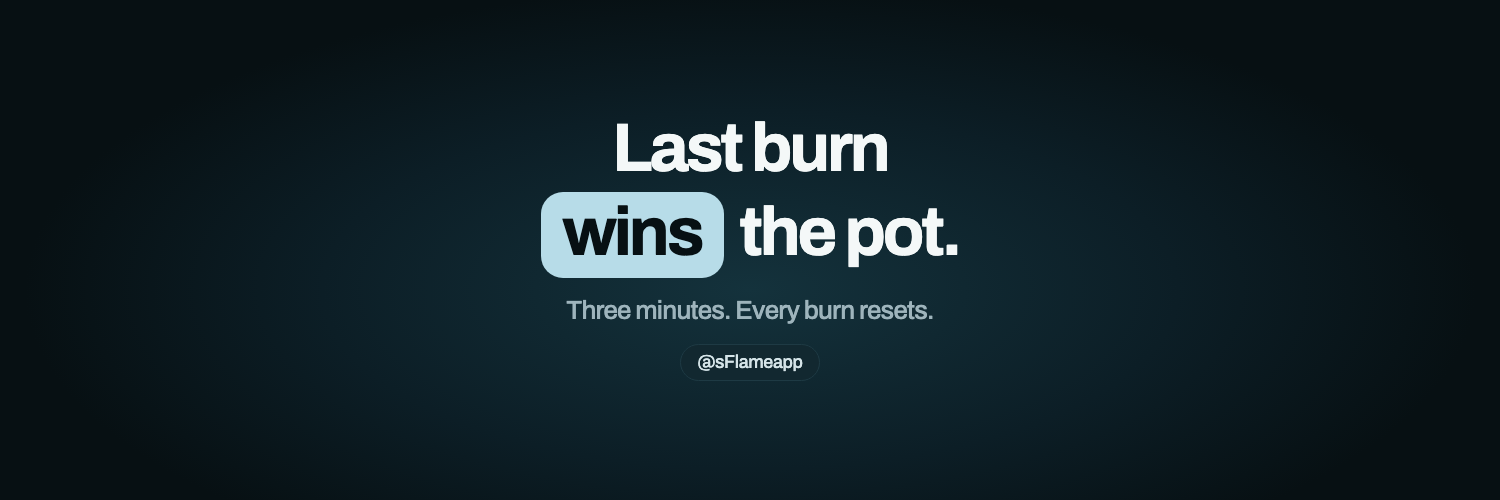
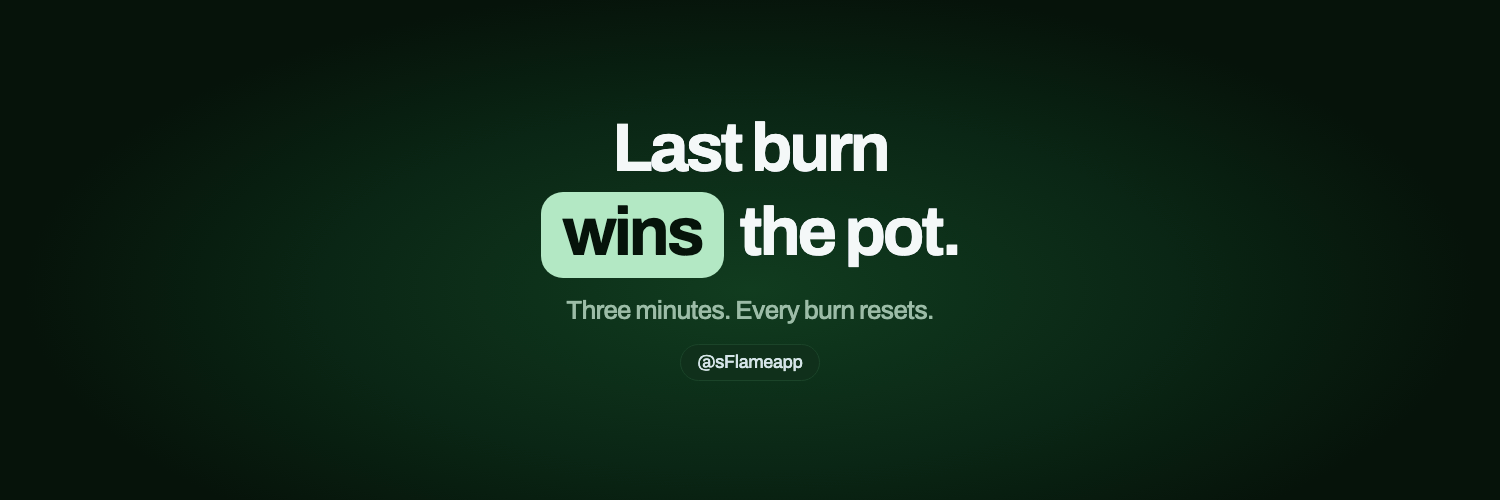
Switch the launch rail and the palette to Pump.fun green.

Changed region(s): [[0.3373, 0.36, 0.6133, 0.72]]

diff --git a/src/index.css b/src/index.css
@@ -2,11 +2,12 @@
 
 :root {
   --black: #071013;
-  --off-white: #f3f8f8;
-  --grey-primary: #5d737c;
-  --grey-secondary: #8eacb6;
-  --brand: #69aac1;
-  --brand-bright: #a4c5cf;
+  --off-white: #f4f8f4;
+  --grey-primary: #5a7a62;
+  --grey-secondary: #8eb89a;
+  --brand: #86efac;
+  --brand-bright: #c6f7d6;
+  --on-brand: #052e16;
   --surface-darker: #0710131a;
   --surface-lighter: #f3f8f81a;
   --hover-on-light: #07101326;
@@ -42,7 +43,7 @@ body.menu-open, body.is-booting { overflow: hidden; }
 a { color: inherit; text-decoration: none; }
 button { font: inherit; color: inherit; cursor: pointer; background: none; border: none; }
 img, svg { max-width: 100%; display: block; }
-::selection { background: var(--brand); color: var(--off-white); }
+::selection { background: var(--brand); color: var(--on-brand); }
 
 h1, .h1 { letter-spacing: -1.32px; font-size: 44px; font-weight: 400; line-height: 0.96; }
 h2, .h2 { letter-spacing: -0.72px; font-size: 36px; font-weight: 400; line-height: 1.06; }
@@ -73,7 +74,7 @@ h5, .h5 { letter-spacing: -0.22px; font-size: 22px; font-weight: 500; line-heigh
 .layout-block-inner { width: 100%; max-width: var(--layout-width); margin-inline: auto; }
 
 .gradient-bg-light {
-  background: radial-gradient(ellipse 100% 130% at 50% -30%, #c5dde6 40%, #e7f1f4 82%, var(--off-white));
+  background: radial-gradient(ellipse 100% 130% at 50% -30%, #c5e6d0 40%, #e7f4ec 82%, var(--off-white));
   pointer-events: none;
   z-index: 0;
   width: 100vw;
@@ -168,7 +169,7 @@ h5, .h5 { letter-spacing: -0.22px; font-size: 22px; font-weight: 500; line-heigh
 .ui-button .icon > span { width: 32px; padding: 0; }
 .ui-button .icon svg { width: 16px; height: 16px; }
 .ui-button:hover .content > span, .ui-button:hover .icon > span { transform: translateY(-100%); }
-.ui-button.accent .content { background: var(--brand); color: var(--off-white); }
+.ui-button.accent .content { background: var(--brand); color: var(--on-brand); }
 .ui-button.secondary .content { backdrop-filter: blur(20px); background: var(--surface-darker); color: var(--black); transition: background-color 0.4s var(--ease); }
 .ui-button.secondary.is-on-dark .content { background: var(--surface-lighter); color: var(--off-white); }
 .ui-button.secondary:hover .content { background: var(--hover-on-light); }
@@ -176,7 +177,7 @@ h5, .h5 { letter-spacing: -0.22px; font-size: 22px; font-weight: 500; line-heigh
 .ui-button.secondary .content > span { gap: 6px; }
 .ui-button:hover.secondary .content > span:before { content: ""; background: var(--brand); width: 6px; height: 6px; display: block; }
 .ui-button.has-icon .icon { background: inherit; }
-.ui-button.has-icon.accent .icon { background: var(--brand); color: var(--off-white); }
+.ui-button.has-icon.accent .icon { background: var(--brand); color: var(--on-brand); }
 .ui-button.has-icon.secondary .icon { backdrop-filter: blur(20px); background: var(--surface-darker); }
 .ui-button.has-icon.secondary.is-on-dark .icon { background: var(--surface-lighter); }
 .ui-button:disabled { cursor: not-allowed; opacity: 0.42; pointer-events: none; }
@@ -255,7 +256,7 @@ h5, .h5 { letter-spacing: -0.22px; font-size: 22px; font-weight: 500; line-heigh
   z-index: 3;
   border-radius: calc(var(--frame) * 8px);
   box-shadow: 0 24px 80px rgba(0, 0, 0, calc(var(--frame) * 0.18));
-  background: radial-gradient(circle at 62% 42%, #16323c 0%, #0c1c22 52%, #071013 100%);
+  background: radial-gradient(circle at 62% 42%, #163c2a 0%, #0c2218 52%, #071013 100%);
   position: absolute;
   overflow: hidden;
 }
@@ -324,7 +325,7 @@ h5, .h5 { letter-spacing: -0.22px; font-size: 22px; font-weight: 500; line-heigh
 @media (width >= 900px) {
   .hero-bottom { grid-template-columns: 160px 1fr 280px; gap: 28px; }
 }
-.hero-mid { color: #c5dde4; max-width: 420px; }
+.hero-mid { color: #c9e6d4; max-width: 420px; }
 .news-chip { backdrop-filter: blur(16px); background: #ffffff0f; padding: 14px 16px; display: block; }
 .news-chip .body-smaller { margin-top: 8px; }
 .pin-dot { background: var(--brand); width: 6px; height: 6px; margin-bottom: 16px; display: block; }
@@ -338,7 +339,8 @@ h5, .h5 { letter-spacing: -0.22px; font-size: 22px; font-weight: 500; line-heigh
 }
 .prod-copy h2 { margin-bottom: 16px; }
 .prod-copy .body { color: var(--grey-primary); max-width: 420px; }
-.prod-chart-card { color: var(--off-white); background: linear-gradient(#69aac1 0%, #0c303e 100%); flex-direction: column; min-height: 420px; padding: 28px 24px 20px; display: flex; }
+.prod-chart-card { color: var(--on-brand); background: linear-gradient(#86efac 0%, #0e3d24 72%, #07140d 100%); flex-direction: column; min-height: 420px; padding: 28px 24px 20px; display: flex; }
+.prod-chart-card .holdings-chart { color: #e8ffef; }
 .chart-value { letter-spacing: -0.04em; margin: 4px 0 18px; font-size: 42px; }
 .chart-sub { opacity: 0.85; margin-bottom: 12px; }
 .holdings-chart { width: 100%; height: 140px; margin-top: auto; }
@@ -369,14 +371,14 @@ h5, .h5 { letter-spacing: -0.22px; font-size: 22px; font-weight: 500; line-heigh
 .stack-copy { min-height: 280px; position: relative; }
 .stack-item { max-width: 520px; transition: opacity 0.7s var(--ease), transform 0.7s var(--ease); position: absolute; inset: 0 auto auto 0; }
 .stack-item h3 { margin: 8px 0 12px; font-size: clamp(28px, 3.4vw, 44px); }
-.stack-item .body { color: color-mix(in srgb, var(--grey-primary) calc((1 - var(--mix, 0)) * 100%), #c5dde4 calc(var(--mix, 0) * 100%)); }
+.stack-item .body { color: color-mix(in srgb, var(--grey-primary) calc((1 - var(--mix, 0)) * 100%), #c9e6d4 calc(var(--mix, 0) * 100%)); }
 .stack-visual { height: min(52vh, 480px); position: relative; }
 .stack-flame {
   width: min(280px, 46vw);
   height: min(420px, 52vh);
   margin-inline: auto;
   color: var(--brand);
-  filter: drop-shadow(0 0 28px #69aac166);
+  filter: drop-shadow(0 0 28px #86efac66);
   transform-origin: 50% 90%;
   animation: flame-flicker 2.8s ease-in-out infinite;
 }
@@ -391,13 +393,13 @@ h5, .h5 { letter-spacing: -0.22px; font-size: 22px; font-weight: 500; line-heigh
 .cta-visual { position: relative; display: flex; align-items: center; }
 .pot-chart { width: min(100%, 480px); margin-left: auto; }
 .pot-chart .chart-value { margin: 6px 0 8px; font-size: clamp(52px, 6vw, 80px); }
-.pot-chart .chart-sub { color: #c5dde4; }
-.pot-chart-caption { color: #c5dde4; margin-top: 22px; }
+.pot-chart .chart-sub { color: #c9e6d4; }
+.pot-chart-caption { color: #c9e6d4; margin-top: 22px; }
 .pot-chart-line { width: 100%; height: 180px; margin-top: 8px; display: block; }
-.pot-chart-key { color: #c5dde4; justify-content: space-between; gap: 16px; margin-top: 8px; display: flex; }
+.pot-chart-key { color: #c9e6d4; justify-content: space-between; gap: 16px; margin-top: 8px; display: flex; }
 
 .opp-track { height: 220vh; }
-.opp-sticky { background: linear-gradient(180deg, #102830 0%, #d5e6ec 58%, var(--off-white) 100%); align-items: center; display: flex; }
+.opp-sticky { background: linear-gradient(180deg, #103028 0%, #d5ecdf 58%, var(--off-white) 100%); align-items: center; display: flex; }
 .opp-reveal { width: 100%; }
 .opp-lines { margin: 28px 0 36px; }
 .opp-line { letter-spacing: -0.03em; font-size: clamp(26px, 4.2vw, 52px); font-weight: 400; line-height: 1.12; }
@@ -424,7 +426,7 @@ h5, .h5 { letter-spacing: -0.22px; font-size: 22px; font-weight: 500; line-heigh
 .page-hero .actions { flex-wrap: wrap; gap: 8px; margin-top: 28px; display: flex; }
 .flame-hero-top { display: flex; flex-wrap: wrap; align-items: flex-end; justify-content: space-between; gap: 16px; }
 .live-pot-label { align-items: center; gap: 8px; margin-top: 18px; color: var(--grey-primary); display: flex; }
-.live-dot { width: 8px; height: 8px; background: var(--brand); border-radius: 50%; box-shadow: 0 0 0 0 #69aac199; animation: live-pulse 1.6s ease-out infinite; display: block; }
+.live-dot { width: 8px; height: 8px; background: var(--brand); border-radius: 50%; box-shadow: 0 0 0 0 #86efac99; animation: live-pulse 1.6s ease-out infinite; display: block; }
 .live-dot.claimable { background: var(--brand-bright); }
 .live-dot.claimed, .live-dot.soon { opacity: 0.45; animation: none; box-shadow: none; }
 .flame-pot { letter-spacing: -0.05em; margin-top: 6px; font-size: clamp(48px, 8vw, 88px); font-weight: 400; line-height: 0.95; }
@@ -457,7 +459,7 @@ h5, .h5 { letter-spacing: -0.22px; font-size: 22px; font-weight: 500; line-heigh
 .site-footer-dark {
   --in: 0;
   color: var(--off-white);
-  background: linear-gradient(#1a4d5c 0%, #102127 46%, #071013 100%);
+  background: linear-gradient(#1a5c3a 0%, #102118 46%, #071013 100%);
   padding: 48px 0 0;
   position: relative;
   overflow: hidden;
@@ -536,7 +538,7 @@ h5, .h5 { letter-spacing: -0.22px; font-size: 22px; font-weight: 500; line-heigh
 .boot-pin.br { bottom: 28px; right: 28px; }
 .boot-meta { text-align: center; letter-spacing: 0.28em; opacity: 0.5; animation: boot-in 1.25s 80ms var(--ease) both; position: absolute; top: 36px; left: 0; right: 0; }
 .boot-core { z-index: 1; flex-direction: column; align-items: center; gap: 32px; width: min(86vw, 920px); display: flex; position: relative; }
-.boot-mark { width: 52px; height: 64px; color: var(--brand); transform-origin: 50% 90%; filter: drop-shadow(0 0 18px #69aac188); animation: boot-mark 1.55s var(--ease) both, flame-flicker 2.4s 1.5s ease-in-out infinite; }
+.boot-mark { width: 52px; height: 64px; color: var(--brand); transform-origin: 50% 90%; filter: drop-shadow(0 0 18px #86efac88); animation: boot-mark 1.55s var(--ease) both, flame-flicker 2.4s 1.5s ease-in-out infinite; }
 .boot-word { font-family: var(--font); letter-spacing: -0.04em; animation: boot-word 1.55s 60ms var(--ease) both; margin: 0; font-size: clamp(48px, 14vw, 168px); font-weight: 400; line-height: 0.85; }
 .boot-progress { width: min(100%, 420px); animation: boot-progress-in 1.2s 0.28s var(--ease) both; grid-template-columns: 1fr auto; align-items: center; gap: 16px; margin-top: 8px; display: grid; }
 .boot-bar { background: #f3f8f81a; height: 2px; position: relative; overflow: visible; }
@@ -561,7 +563,7 @@ h5, .h5 { letter-spacing: -0.22px; font-size: 22px; font-weight: 500; line-heigh
 @keyframes boot-mark-out { to { opacity: 0; transform: scale(0.9); } }
 @keyframes boot-word-out { to { opacity: 0; letter-spacing: 0.02em; transform: translateY(-20px); } }
 @keyframes boot-leave { to { opacity: 0; visibility: hidden; } }
-@keyframes live-pulse { to { box-shadow: 0 0 0 10px #69aac100; } }
+@keyframes live-pulse { to { box-shadow: 0 0 0 10px #86efac00; } }
 
 @media (prefers-reduced-motion: reduce) {
   .site-main, .page-veil, .page-veil-line, .boot, .boot-meta, .boot-mark, .boot-word, .boot-progress, .boot-glow, .boot-pin, .hero-flame, .stack-flame, .live-dot {

diff --git a/src/pages/Home.jsx b/src/pages/Home.jsx
@@ -14,9 +14,9 @@ const steps = [
 ]
 
 const stack = [
-  ["token", "Token", "Launch on StonkFun", "SFLM launches on StonkFun. The trading pool stays put. Nobody wins that liquidity."],
+  ["token", "Token", "Launch on Pump.fun", "SFLM launches on Pump.fun. The trading pool stays put. Nobody wins that liquidity."],
   ["burn", "Burn", "Quote follows the pool", "Cheap token, more coins. Expensive token, fewer coins. Same SOL pain, then 5% harder."],
-  ["pot", "Pot", "SOL sits on its own", "The pot is separate. The winner is the last burner. The pot wallet sends the SOL. It is not the Raydium pool."],
+  ["pot", "Pot", "SOL sits on its own", "The pot is separate. The winner is the last burner. The pot wallet sends the SOL. It is not the Pump.fun pool."],
   ["clock", "Clock", "Three minutes, full reset", "The first burn starts the clock. Every later burn sets it back to 3:00."],
   ["claim", "Winner", "Last burn takes it", "When the clock hits zero, that wallet is the winner. The pot wallet sends the SOL."],
 ]
@@ -24,14 +24,14 @@ const stack = [
 const lines = [
   "Solana puts the burn onchain,",
   "in front of a live pool.",
-  "We launch SFLM on StonkFun,",
+  "We launch SFLM on Pump.fun,",
   "you sign from your wallet,",
   "and the last burn takes the pot.",
 ]
 
 const faqs = [
-  ["Where does sFlame launch?", "On Solana, through StonkFun. You sign from your wallet. StonkFun is the launch rail. sFlame is the burn game on top."],
-  ["What do you win?", "A separate SOL pot. Not the Raydium pool, and not other people’s liquidity. The last wallet to burn before the clock hits zero is the winner, and the pot wallet sends the SOL there."],
+  ["Where does sFlame launch?", "On Solana, through Pump.fun. You sign from your wallet. Pump.fun is the launch rail. sFlame is the burn game on top."],
+  ["What do you win?", "A separate SOL pot. Not the Pump.fun pool, and not other people’s liquidity. The last wallet to burn before the clock hits zero is the winner, and the pot wallet sends the SOL there."],
   ["How does the clock work?", "The first burn starts a 3 minute clock. Every later burn resets it to 3 minutes. If nobody burns before it ends, that wallet is the winner."],
   ["How many tokens do you burn?", "Enough to equal a SOL target at the pool price. A cheap token means more tokens. An expensive token means fewer. The SOL target rises 5% after every burn."],
   ["Is this live?", "This site is the interface. The timer you can press here runs in the browser so the flow is visible. It does not move SOL yet."],
@@ -81,7 +81,7 @@ export default function Home() {
             </div>
             <div className="hero-bottom">
               <div>
-                <p className="mono">Launching via StonkFun on Solana as</p>
+                <p className="mono">Launching via Pump.fun on Solana as</p>
                 <p className="h6">SFLM</p>
               </div>
               <p className="body-smaller hero-mid">
@@ -269,10 +269,10 @@ function PotChart({ game }) {
         {[0.25, 0.5, 0.75].map((mark) => (
           <line key={mark} x1="0" x2={width} y1={height * mark} y2={height * mark} stroke="#f3f8f814" />
         ))}
-        <path d={area} fill="#69aac133" />
-        <path d={line} fill="none" stroke="#b7eef8" strokeWidth="2.4" />
+        <path d={area} fill="#86efac33" />
+        <path d={line} fill="none" stroke="#c6f7d6" strokeWidth="2.4" />
         {coords.map((point, index) => (
-          <circle key={`${point.x}-${index}`} cx={point.x} cy={point.y} r={point.next ? 4.5 : 3} fill={point.next ? "#b7eef8" : "#69aac1"} />
+          <circle key={`${point.x}-${index}`} cx={point.x} cy={point.y} r={point.next ? 4.5 : 3} fill={point.next ? "#c6f7d6" : "#86efac"} />
         ))}
       </svg>
       <div className="pot-chart-key mono">

diff --git a/src/components/FlameStage.jsx b/src/components/FlameStage.jsx
@@ -10,7 +10,7 @@ function clay(color, emissive, intensity) {
     clearcoat: 0.72,
     clearcoatRoughness: 0.18,
     sheen: 0.18,
-    sheenColor: new THREE.Color(0xd7f4ff),
+    sheenColor: new THREE.Color(0xd7ffe4),
     emissive: new THREE.Color(emissive),
     emissiveIntensity: intensity,
   })
@@ -270,23 +270,23 @@ export function FlameStage() {
       return material
     }
 
-    const body = new THREE.Mesh(keep(inflate(bodyShape(), 0.3, 110, 150)), paint(clay(0x127aa4, 0x063848, 0.05)))
+    const body = new THREE.Mesh(keep(inflate(bodyShape(), 0.3, 110, 150)), paint(clay(0x1fad5a, 0x063818, 0.05)))
     root.add(body)
 
-    const lick = new THREE.Mesh(keep(inflate(lickShape(), 0.12, 64, 72)), paint(clay(0x3eb4d4, 0x0c5878, 0.08)))
+    const lick = new THREE.Mesh(keep(inflate(lickShape(), 0.12, 64, 72)), paint(clay(0x4ade80, 0x0c5830, 0.08)))
     lick.position.z = 0.3
     root.add(lick)
 
-    const tongue = new THREE.Mesh(keep(inflate(tongueShape(), 0.16, 80, 100)), paint(clay(0xb7eef8, 0x3eb4d6, 0.2)))
+    const tongue = new THREE.Mesh(keep(inflate(tongueShape(), 0.16, 80, 100)), paint(clay(0xdfffe8, 0x86efac, 0.2)))
     tongue.position.z = 0.34
     root.add(tongue)
 
-    const core = new THREE.Mesh(keep(inflate(coreShape(), 0.08, 48, 60)), paint(clay(0xeefbff, 0x7ad4ea, 0.28)))
+    const core = new THREE.Mesh(keep(inflate(coreShape(), 0.08, 48, 60)), paint(clay(0xf4fff6, 0xb6f5c8, 0.28)))
     core.position.z = 0.48
     root.add(core)
 
     const emberGeometry = keep(inflate(emberShape(), 0.04, 36, 44))
-    const emberMaterial = paint(clay(0x8ed4ee, 0x2a8eb0, 0.08))
+    const emberMaterial = paint(clay(0x86efac, 0x1a7a40, 0.08))
     const embers = [
       [0.5, 1.4, 0.42, -0.55, 0.9],
       [0.12, 1.68, 0.36, 0.15, 0.4],
@@ -322,11 +322,11 @@ export function FlameStage() {
     shadow.renderOrder = -1
     scene.add(shadow)
 
-    scene.add(new THREE.HemisphereLight(0xf7fcff, 0x123040, 0.72))
+    scene.add(new THREE.HemisphereLight(0xf7fff8, 0x123020, 0.72))
     const key = new THREE.DirectionalLight(0xffffff, 1.7)
     key.position.set(-3.2, 4.4, 3.4)
     scene.add(key)
-    const fill = new THREE.DirectionalLight(0xd7f4ff, 0.45)
+    const fill = new THREE.DirectionalLight(0xd7ffe4, 0.45)
     fill.position.set(2.4, 1.2, 2.8)
     scene.add(fill)
 

diff --git a/src/components/Shell.jsx b/src/components/Shell.jsx
@@ -227,8 +227,8 @@ export function Shell({ children }) {
             ))}
           </div>
           <div className="menu-meta mono">
-            <span>Token SFLM · Solana · via StonkFun</span>
-            <a href="https://stonkfun.xyz" target="_blank" rel="noreferrer">StonkFun</a>
+            <span>Token SFLM · Solana · via Pump.fun</span>
+            <a href="https://pump.fun" target="_blank" rel="noreferrer">Pump.fun</a>
           </div>
         </div>
 
@@ -250,7 +250,7 @@ export function Shell({ children }) {
             <div className="footer-grid">
               <div className="footer-brand">
                 <p className="mono">Token</p>
-                <p className="h6">SFLM via StonkFun on Solana</p>
+                <p className="h6">SFLM via Pump.fun on Solana</p>
               </div>
               <div className="footer-col">
                 <h3>Navigation</h3>
@@ -265,7 +265,7 @@ export function Shell({ children }) {
               </div>
               <div className="footer-col">
                 <h3>Launch</h3>
-                <a href="https://stonkfun.xyz" target="_blank" rel="noreferrer">StonkFun</a>
+                <a href="https://pump.fun" target="_blank" rel="noreferrer">Pump.fun</a>
               </div>
               <div className="footer-col">
                 <h3>X</h3>
@@ -277,7 +277,7 @@ export function Shell({ children }) {
               </div>
             </div>
             <div className="footer-bottom body-smaller">
-              <span>SFLM · Solana · via StonkFun</span>
+              <span>SFLM · Solana · via Pump.fun</span>
             </div>
           </div>
           <div className="footer-wordmark-wrap" ref={wordWrapRef} aria-hidden="true">

diff --git a/src/components/ui.jsx b/src/components/ui.jsx
@@ -10,16 +10,16 @@ const FLAME_CORE =
 export function FlameMark({ className = "" }) {
   return (
     <svg className={className} viewBox="0 -4 64 98" aria-hidden="true">
-      <path fill="#78A8BE" d={FLAME_BODY} />
+      <path fill="#86efac" d={FLAME_BODY} />
       <path className="flame-inner" fill="#fff" fillOpacity="0.84" d={FLAME_TONGUE} />
       <path className="flame-core" fill="#fff" d={FLAME_CORE} />
-      <circle className="flame-ember" cx="34.7" cy="1" r="2.1" fill="#78A8BE" />
-      <circle className="flame-ember" cx="44.2" cy="8.2" r="2.5" fill="#78A8BE" />
-      <circle className="flame-ember" cx="18.1" cy="13.8" r="2.3" fill="#78A8BE" />
-      <circle className="flame-ember" cx="56.1" cy="27.1" r="1.8" fill="#78A8BE" />
-      <circle cx="16" cy="86" r="0.7" fill="#78A8BE" opacity="0.45" />
-      <circle cx="50" cy="90" r="0.55" fill="#78A8BE" opacity="0.35" />
-      <circle cx="8" cy="78" r="0.45" fill="#9ec4d2" opacity="0.4" />
+      <circle className="flame-ember" cx="34.7" cy="1" r="2.1" fill="#86efac" />
+      <circle className="flame-ember" cx="44.2" cy="8.2" r="2.5" fill="#86efac" />
+      <circle className="flame-ember" cx="18.1" cy="13.8" r="2.3" fill="#86efac" />
+      <circle className="flame-ember" cx="56.1" cy="27.1" r="1.8" fill="#86efac" />
+      <circle cx="16" cy="86" r="0.7" fill="#86efac" opacity="0.45" />
+      <circle cx="50" cy="90" r="0.55" fill="#86efac" opacity="0.35" />
+      <circle cx="8" cy="78" r="0.45" fill="#c6f7d6" opacity="0.4" />
     </svg>
   )
 }

diff --git a/src/auth.jsx b/src/auth.jsx
@@ -98,7 +98,7 @@ export function AuthProvider({ children }) {
         loginMethods: ["wallet", "email"],
         appearance: {
           theme: "#071013",
-          accentColor: "#69aac1",
+          accentColor: "#86efac",
           walletChainType: "solana-only",
           walletList: ["phantom", "solflare", "backpack", "detected_solana_wallets"],
           showWalletLoginFirst: true,
